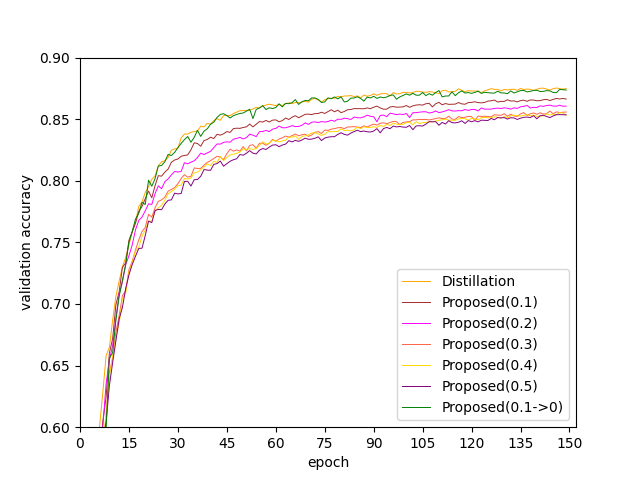
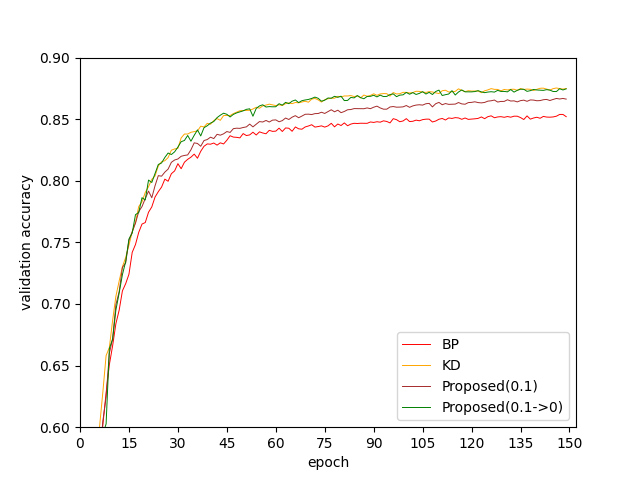
Experiments

Changed region(s): [[0.1562, 0.1875, 0.9062, 0.9062], [0.625, 0.5625, 0.8438, 0.8125]]

diff --git a/result.py b/result.py
@@ -4,7 +4,7 @@ import matplotlib.pyplot as plt
 import torch
 
 def main():           
-    taku = 'special'
+    taku = 'resnet'
     
     if taku == 'resnet':
         epochs = 150
@@ -38,7 +38,7 @@ def main():
             cam03_iter   = 10
             cam04_iter   = 10
             cam05_iter   = 10 
-            cam10_iter   = 4 #NOW synapse(4,5,6) ice9(7,8,9) 0.1->0 ５だけできてない
+            cam10_iter   = 5 #TODO ice9(5,6) 0.1->0 
     elif model_type == 'normal':
         if epochs == 150:
             teacher_iter = 5
@@ -71,7 +71,7 @@ def main():
         cam02_iter   = 0 
         cam03_iter   = 0 
         cam04_iter   = 0 
-        cam05_iter   = 0 #NOW ice9(0)
+        cam05_iter   = 0 
         cam10_iter   = 0 
 
     # setting path
@@ -137,21 +137,21 @@ def main():
     fig.patch.set_facecolor('white')
     plt.xlabel('epoch')
     plt.ylabel('validation accuracy')
-    plt.plot(x, teacher_acc, label='Teacher',          linewidth=0.7, color='blue')
+    # plt.plot(x, teacher_acc, label='Teacher',          linewidth=0.7, color='blue')
     plt.plot(x, student_acc, label='BP',          linewidth=0.7, color='red')
     plt.plot(x, st_acc,      label='KD',     linewidth=0.7, color='orange')
-    # plt.plot(x, cam01_acc,   label='Proposed(0.1)',    linewidth=0.7, color='brown')
+    plt.plot(x, cam01_acc,   label='Proposed(0.1)',    linewidth=0.7, color='brown')
     # plt.plot(x, cam02_acc,   label='Proposed(0.2)',    linewidth=0.7, color='magenta')
     # plt.plot(x, cam03_acc,   label='Proposed(0.3)',    linewidth=0.7, color='tomato')
     # plt.plot(x, cam04_acc,   label='Proposed(0.4)',    linewidth=0.7, color='gold')
     # plt.plot(x, cam05_acc,   label='Proposed(0.5)',    linewidth=0.7, color='purple')
-    # plt.plot(x, cam10_acc,   label='Proposed(0.5->0)', linewidth=0.7, color='green')
+    plt.plot(x, cam10_acc,   label='Proposed(0.1->0)', linewidth=0.7, color='green')
 
     if model_type == 'normal':
         plt.xticks(np.arange(0, epochs+10, epochs/10))
         plt.yticks(np.arange(0, 1.0, 0.1))
-        plt.xlim(-2, epochs+2)
-        plt.ylim(0.50, 0.85)
+        plt.xlim(0, epochs+2)
+        plt.ylim(0.30, 0.85)
     else: 
         plt.xticks(np.arange(0, epochs+10, epochs/10))
         plt.yticks(np.arange(0, 1.0, 0.05))
